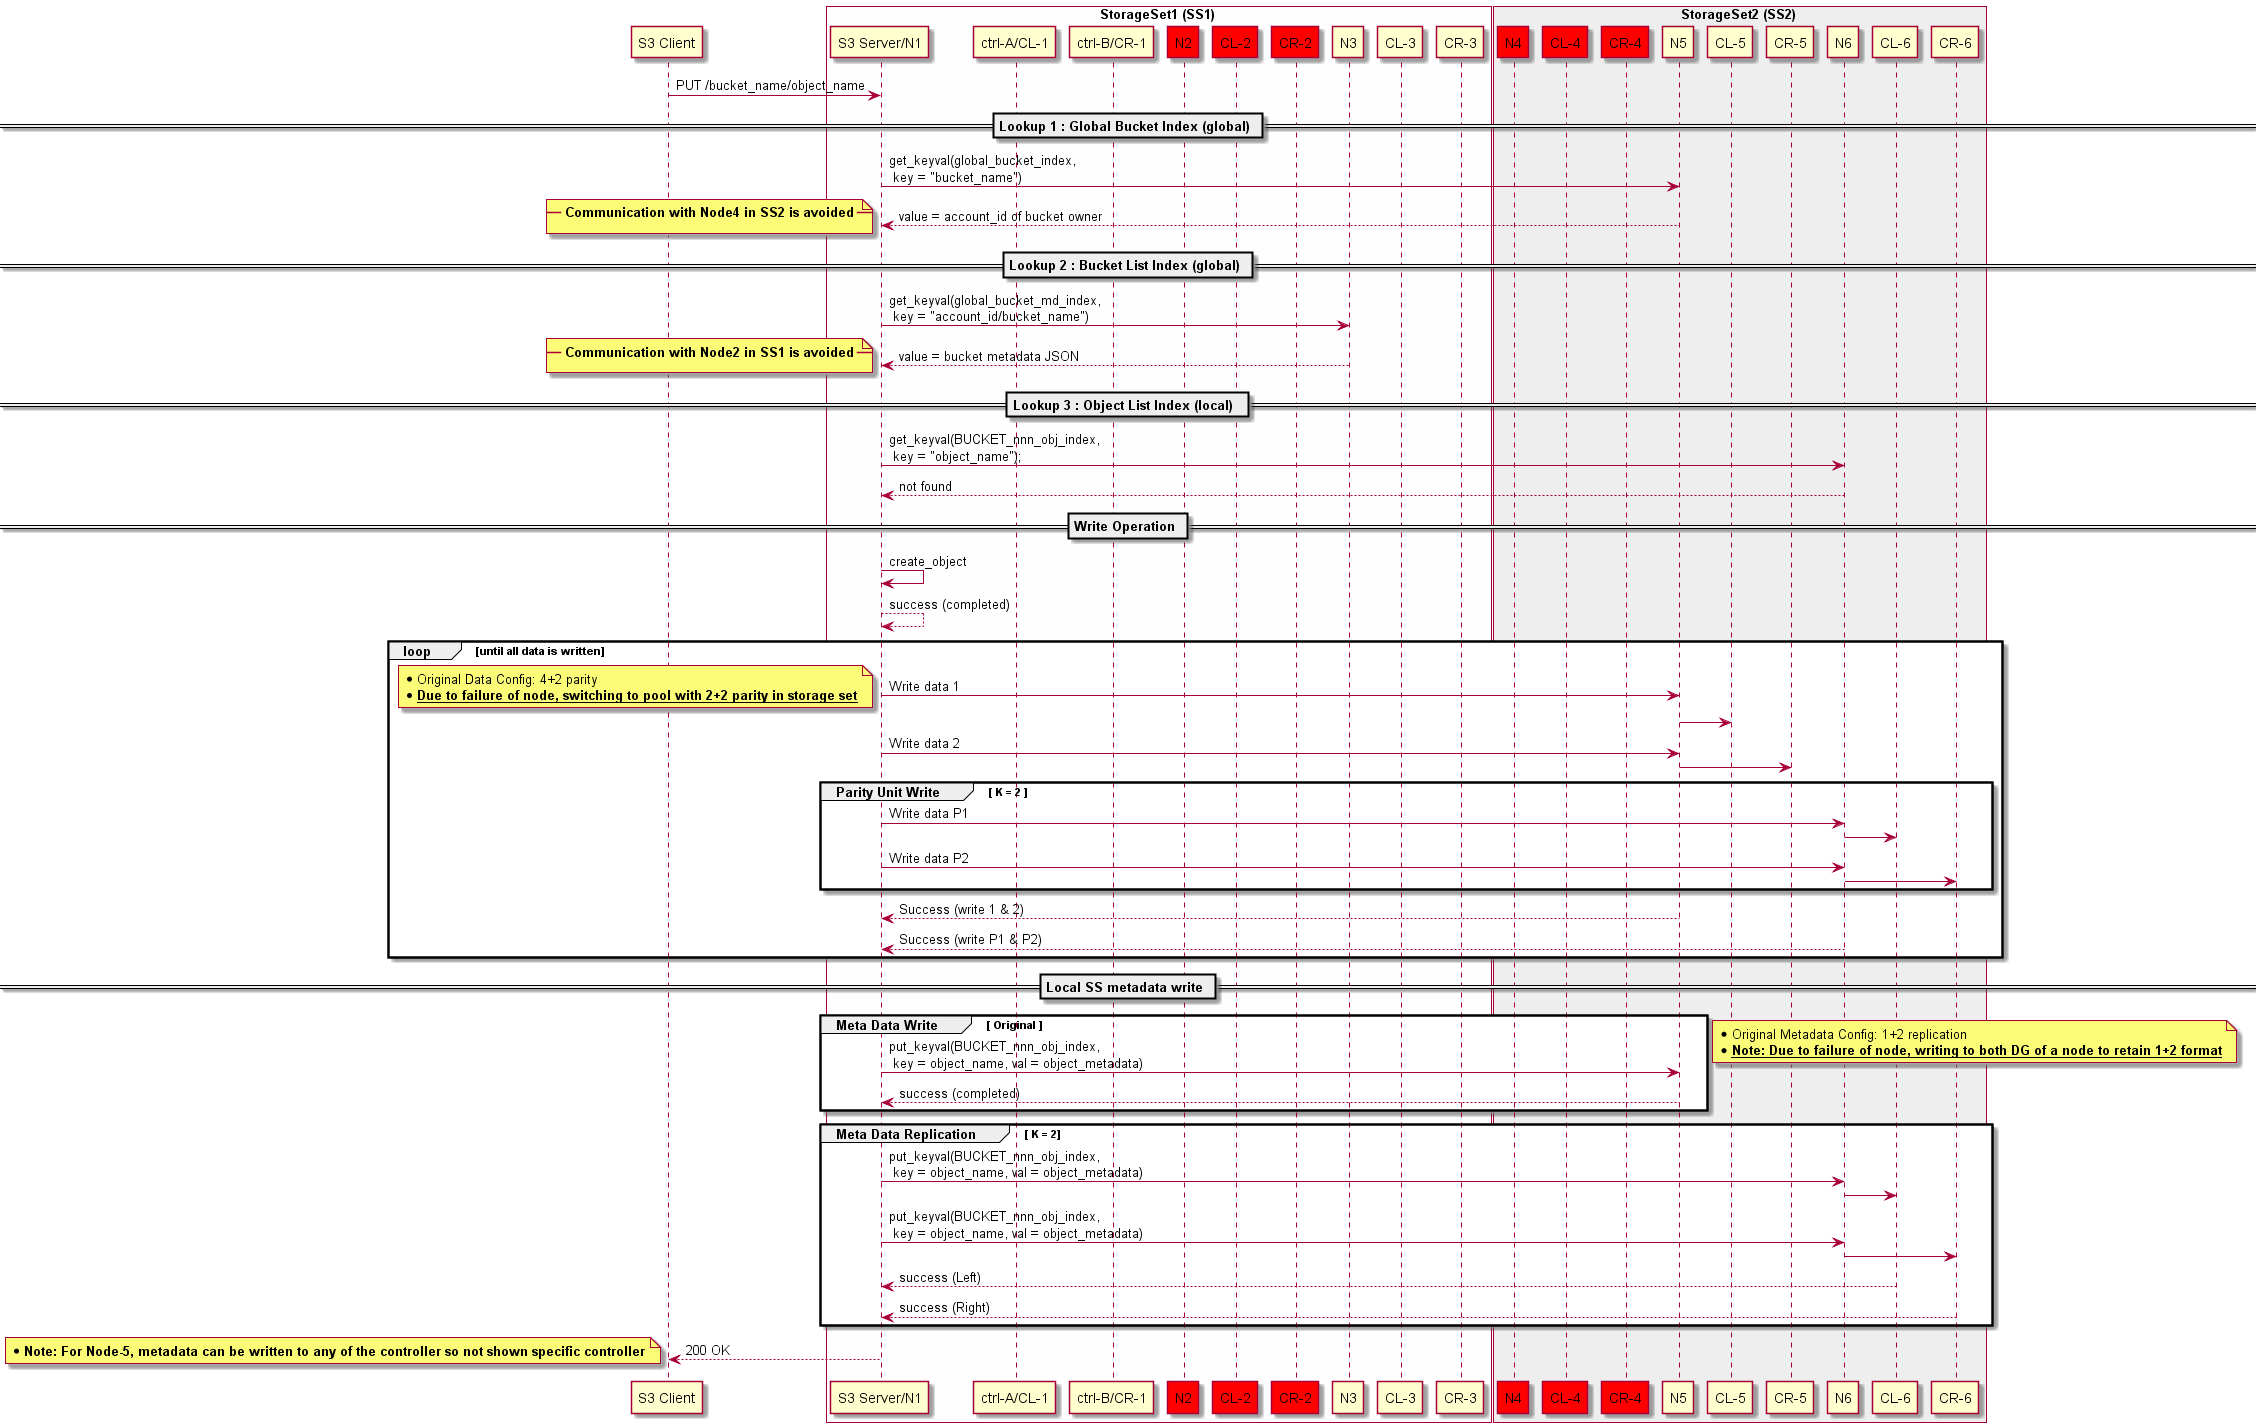
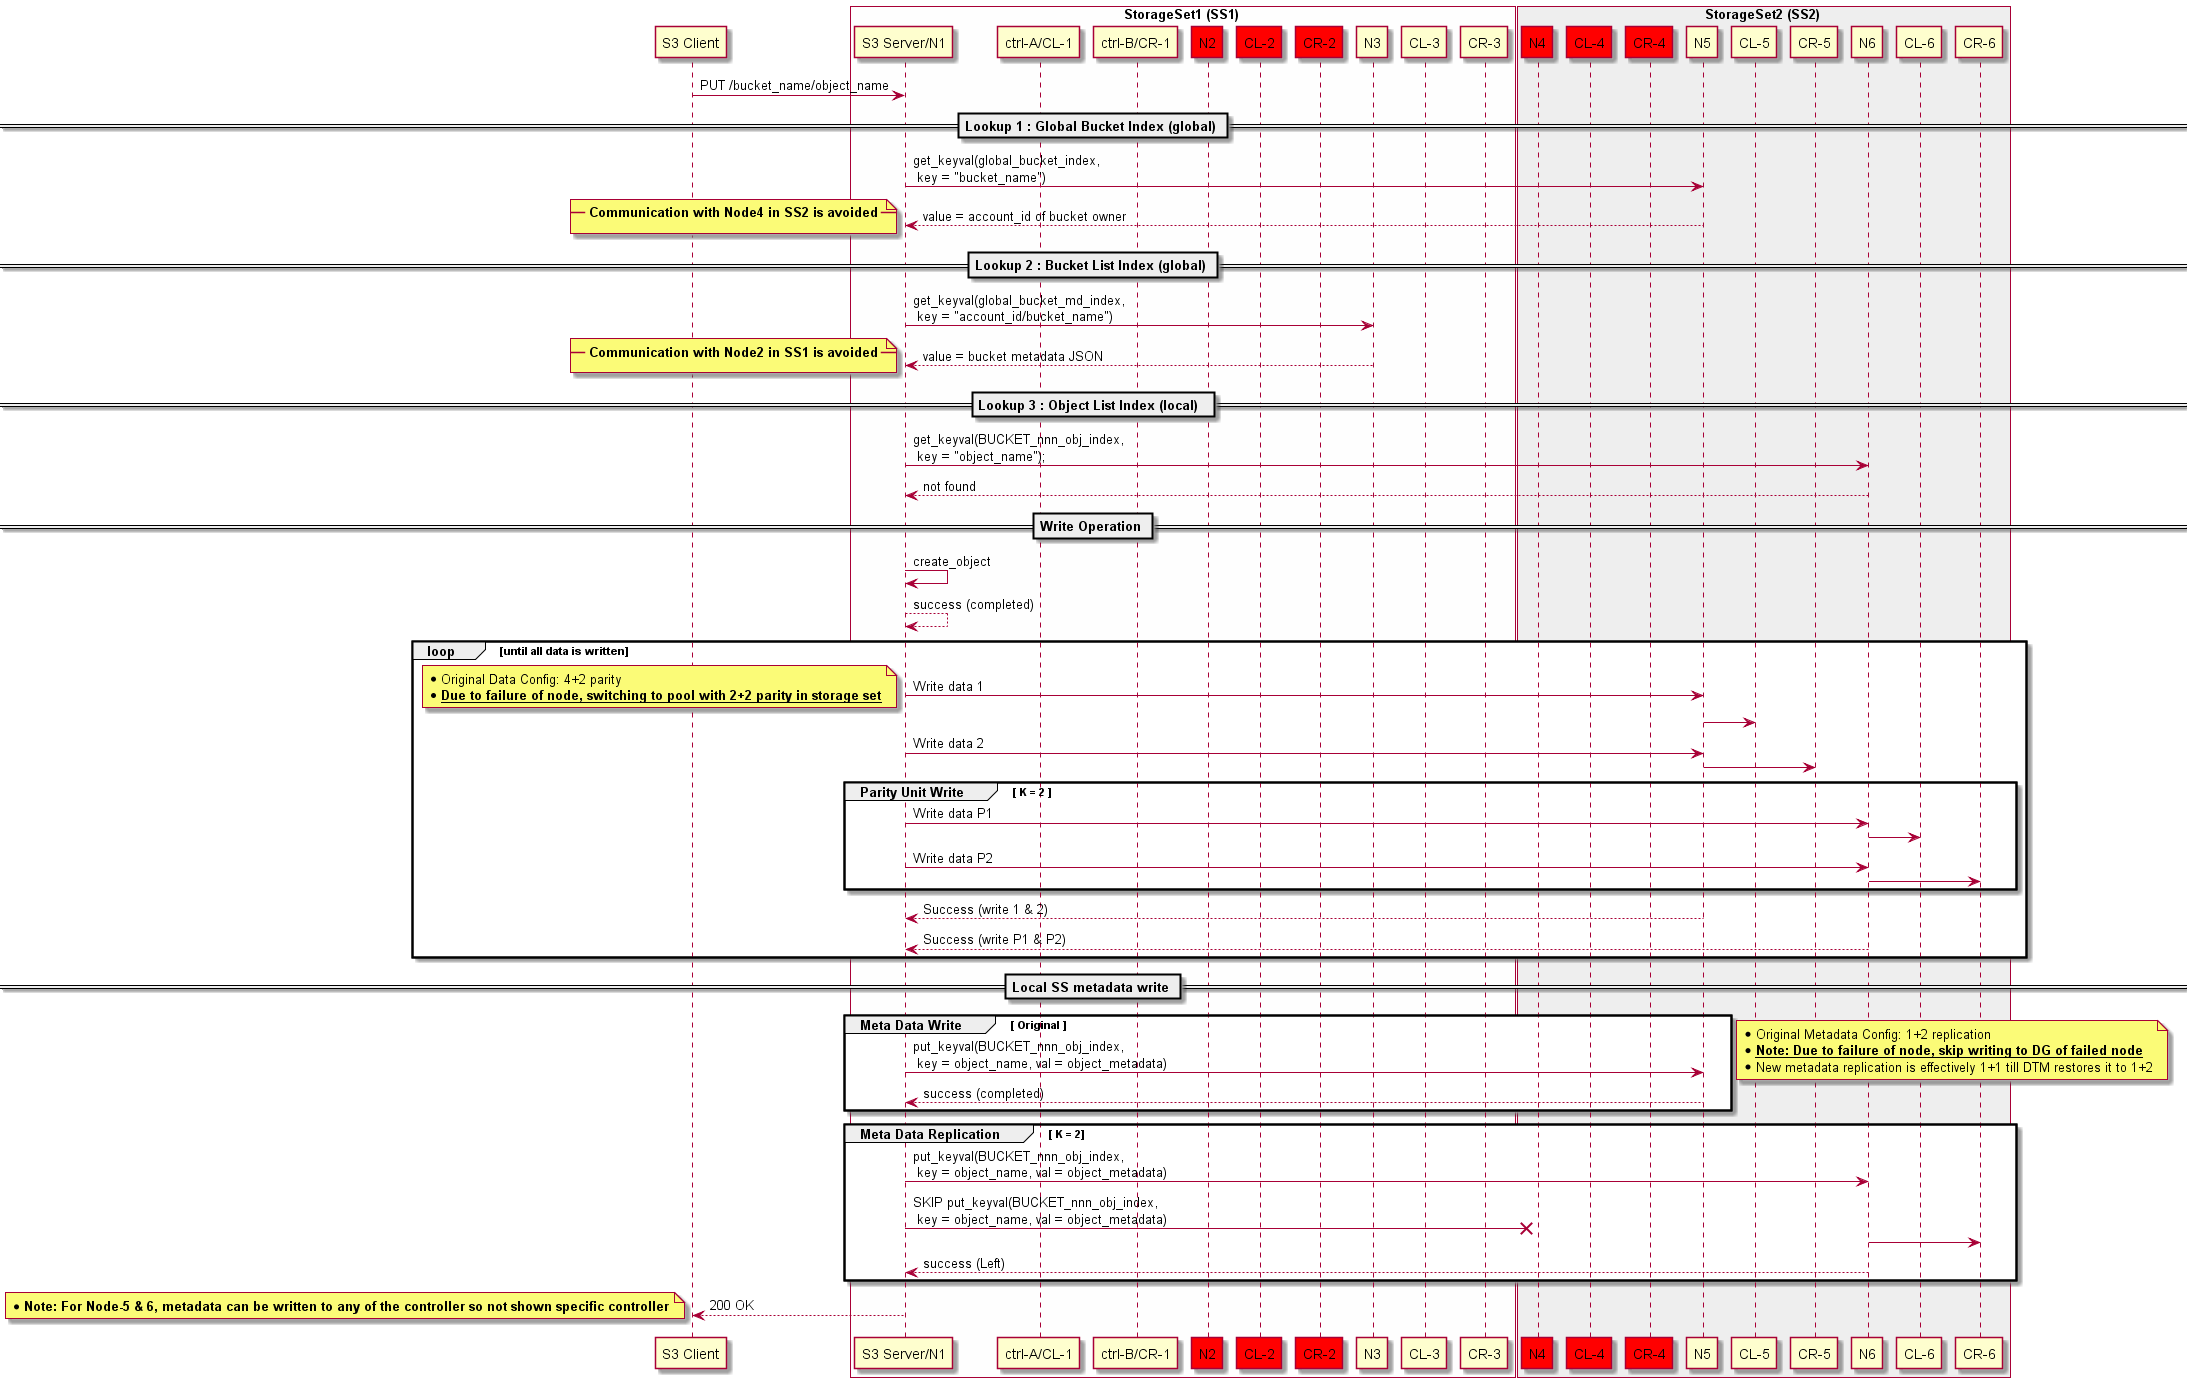
Updating node failure metadata handling and network partition across SS

Changed region(s): [[0.0, 0.0, 1.0, 0.9334], [0.0, 0.9334, 0.9307, 1.0]]

diff --git a/doc/dev/ldrr2/usecases/motr_r2_design.md b/doc/dev/ldrr2/usecases/motr_r2_design.md
@@ -15,6 +15,7 @@
    - [4.3:Failed-Node-Scenario](#4.3:Failed-Node-Scenario)
       - [4.3.1:Simple-Object-Get/Read](#4.3.1:Simple-Object-Get/Read)
       - [4.3.2:Simple-Object-Put/Write](#4.3.2:Simple-Object-Put/Write)
+         - [4.3.2.1:Switching-Layout](#4.3.2.1:Switching-Layout)
 
 # Acronyms
 | **Abbreviation** | **Description** |
@@ -111,7 +112,7 @@ With respect of motr following category of storage failure can occur:
 All the failure handling maps to DG failure in Motr.
 
 ## 3.2:Network-Failure-Analysis
-With respect of motr following category of newtowork failure can occur:
+With respect of motr following category of newtwork failure can occur:
 
 | **Failure Type** | **Motr  Motr Action** |
 | ---------------- | --------------------- | 
@@ -122,6 +123,9 @@ With respect of motr following category of newtowork failure can occur:
 | Multiple Node Unreachable in SS
    - With partition such that node is not a part of SS | Return Error for all IOs, HA Action - Stop IO service? |
 | Multiple Node Unreachable in other SS | Avoid metadata reads on those nodes |
+| All Nodes Unreachable in other SS | Avoid metadata reads on those nodes & return error for if Object List Index metadata is part of that SS |
+
+TODO: With the communication broken between two storage set how the two storage set continue to function with other distrubuted software e.g. Consul and how to sync data when they join back 
 
   ***Node Failure in Storage Set**:
 - Mark volumes of node to be failed
@@ -205,7 +209,21 @@ The sequence diagram below describes GET/PUT flow for the scenario where node is
 * Write path error handling avoids communicating with failed node for metadata and data operations.
 ![Failed Node 2](images/simple_object_put_failed_node.png)
 
+#### 4.3.2.1:Switching-Layout
+<TODO: Add details of switching of layout>
+
 ### 4.3.3:Registration-of-failed-node
+
+## 4.4:Failure-During-Operation
+The sequence diagram below describes GET/PUT flow for the scenario where node is failing and failure is not yet registered by CORTX stack.
+
+### 4.4.1:Simple-Object-Get/Read
+* Read path should detect error in retriving data and should use parity units to get missing data.
+![Node Failure 1](images/simple_object_get_node_failure.png)
+
+### 4.3.1:Simple-Object-Put/Write
+* Write path should detect error in writing data and should return success if the failed number of write unit is less than or equal to number of parity unit
+![Node Failure 2](images/simple_object_put_node_failure.png)
 
 # WIP
 Following scenario will be analyzed w.r.t. DTM role to restore storage system to consistent state w.r.t metadata and data.
@@ -234,15 +252,6 @@ But the DTM is mandatory for keeping the cluster distributed metadata in consist
 ## Error Scenario : 
 * One node from each storage set (SS) fails during IO.
 * Any error in reading metadata should be retried with metadata available with replicated node
-
-## 1. Simple Object Get/Read
-* Read path should detect error in retriving data and should use parity units to get missing data.
-![Node Failure 1](images/simple_object_get_node_failure.png)
-
-
-## 2. Simple Object Put/Write
-* Write path should detect error in writing data and should return success if the failed number of write unit is less than or equal to number of parity unit
-![Node Failure 2](images/simple_object_put_node_failure.png)
 
 # II. Detected Node failed Scenario
 ## Error Scenario : 
